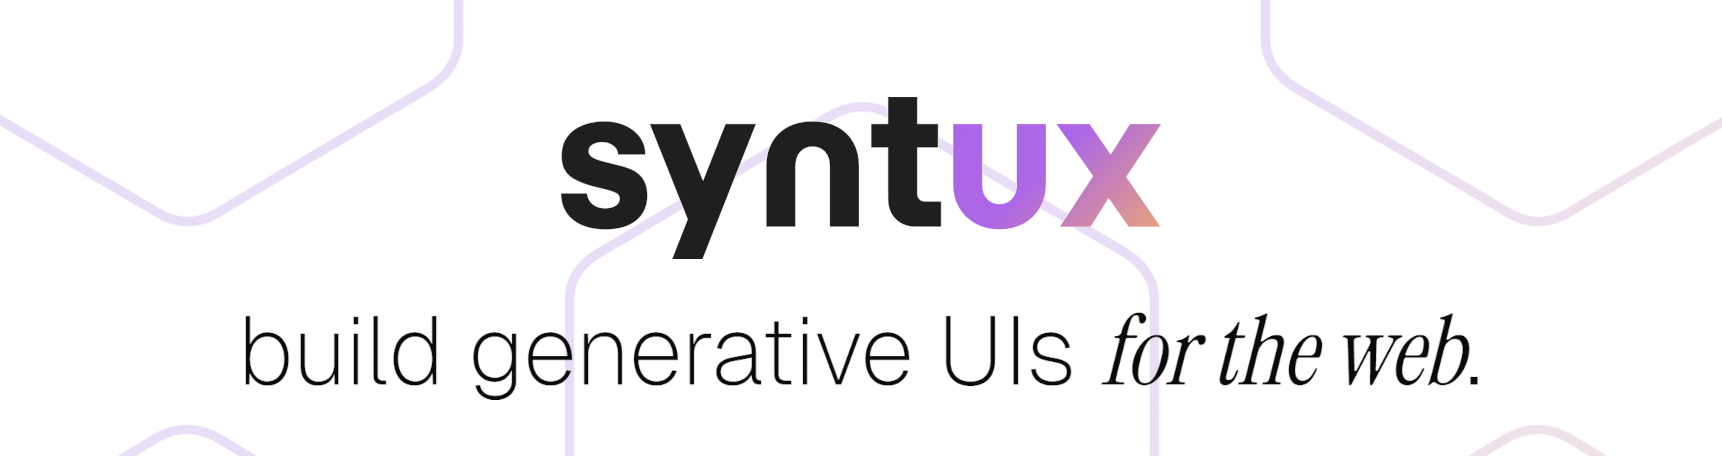
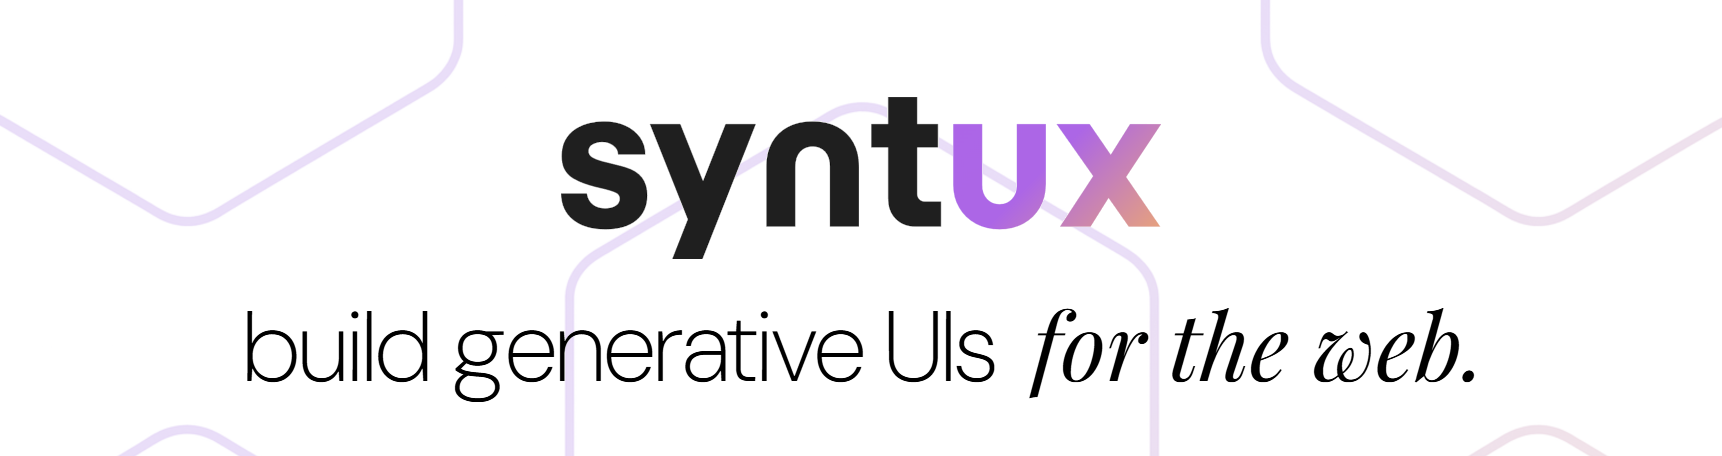
graphics refresh in prep for v0.9 release

Changed region(s): [[0.1231, 0.6754, 0.8618, 0.8904]]

diff --git a/README.md b/README.md
@@ -10,7 +10,7 @@ You give it a <code>value</code> and it designs the UI to display it.
 
 ---
 
-https://github.com/user-attachments/assets/c85de55d-21f3-43ff-8bd3-d6ede2171447
+![](https://raw.githubusercontent.com/puffinsoft/syntux/HEAD/docs/images/features.png)
 
 ### Features
 
